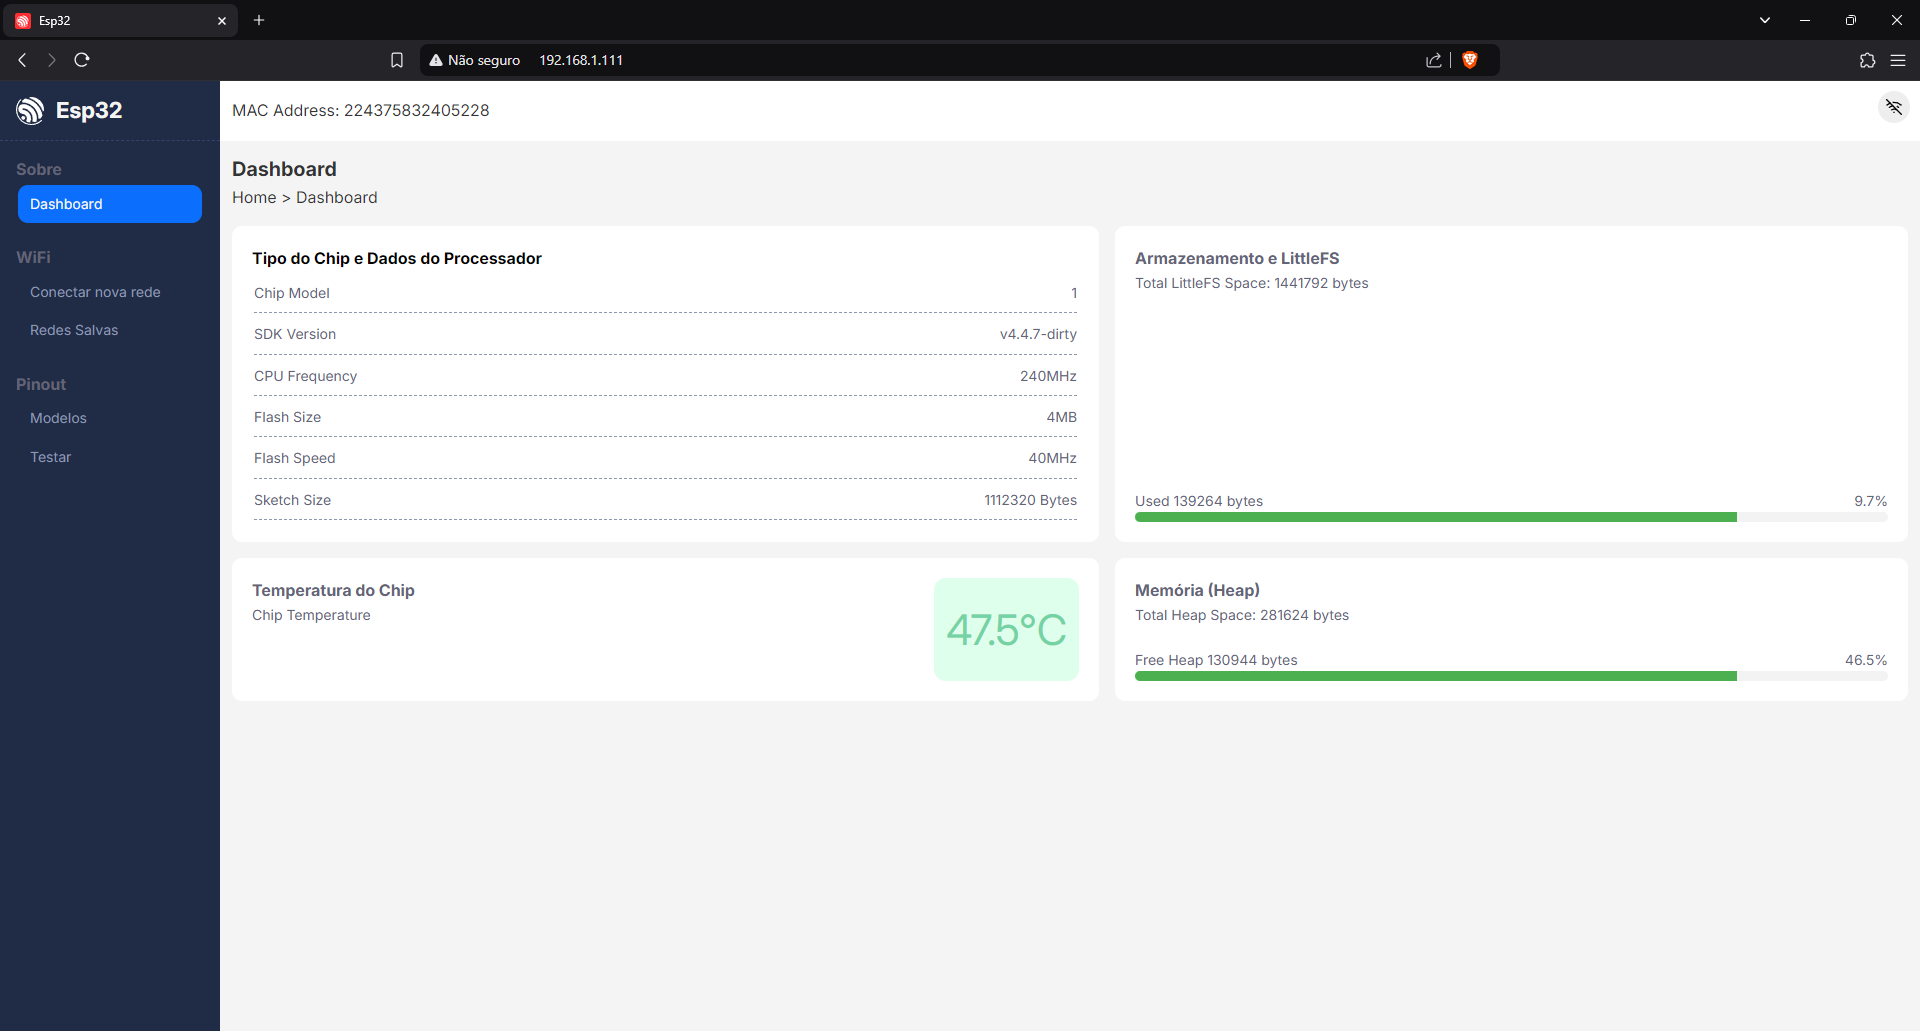
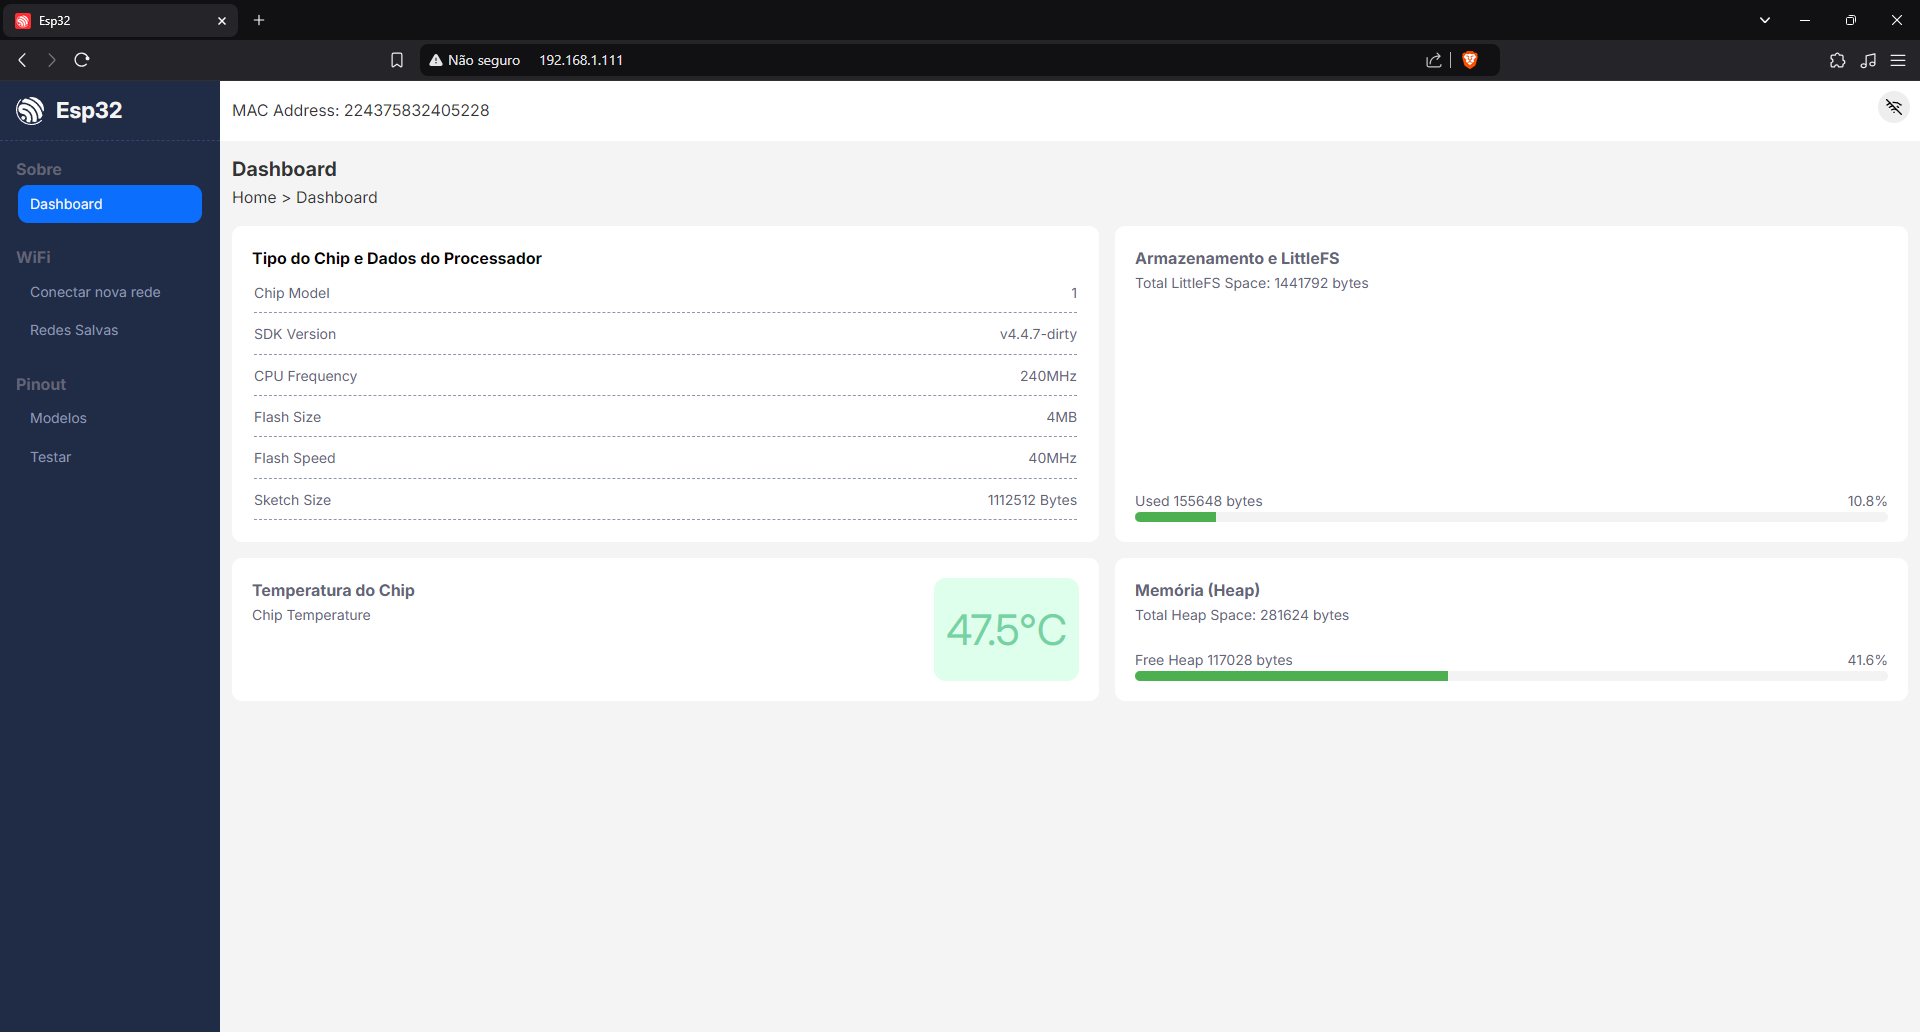
dashboard-admin: progress-bar

diff --git a/web-servers/03_dashboard-admin/data/assets/js/scripts/espinfo.js b/web-servers/03_dashboard-admin/data/assets/js/scripts/espinfo.js
@@ -1,4 +1,4 @@
-import { fetchData, updateTextContent, calculateSubtraction, calculatePercentage, getTempCelsius } from './utils.js';
+import { fetchData, updateTextContent, updateProgressBar, calculateSubtraction, calculatePercentage, getTempCelsius } from './utils.js';
 
 // Mapeamento dos endpoints da API de info do Esp32
 const espInfoAPI = {
@@ -19,23 +19,29 @@ function processChipInfo(data){
     updateTextContent('sketch-size', data.sketchSize);
 }
 
-function processLittleFSInfo(data) { 
-    updateTextContent('littlefs-total', data.totalBytes); 
-    updateTextContent('littlefs-used', data.usedBytes); 
-    updateTextContent(
-        'littlefs-perc', 
-        calculatePercentage(data.usedBytes, data.totalBytes)
-    ); 
+function processLittleFSInfo(data) {
+    const usedBytes = data.usedBytes;
+    const totalBytes = data.totalBytes;
+    const percentage = calculatePercentage(data.usedBytes, data.totalBytes);
+
+    updateTextContent('littlefs-total', totalBytes); 
+    updateTextContent('littlefs-used', usedBytes); 
+    updateTextContent('littlefs-perc', percentage);
+    
+    updateProgressBar('littlefs-bar', percentage);
 }
 
 function processHeapInfo(data) { 
-    let heapUsed = calculateSubtraction(data.heapSize, data.freeHeapSize); 
+    const heapSize = data.heapSize;
+    const freeHeapSize = data.freeHeapSize;
+    const heapUsed = calculateSubtraction(heapSize, freeHeapSize);
+    const percentage = calculatePercentage(heapUsed, heapSize);
+
     updateTextContent('heap-total', data.heapSize);
     updateTextContent('heap-used', heapUsed); 
-    updateTextContent(
-        'heap-perc', 
-        calculatePercentage(heapUsed, data.heapSize)
-    ); 
+    updateTextContent('heap-perc', percentage);
+
+    updateProgressBar('heap-bar', percentage);
 }
 
 function processInternalTemp(data) { 

diff --git a/web-servers/03_dashboard-admin/data/assets/js/scripts/utils.js b/web-servers/03_dashboard-admin/data/assets/js/scripts/utils.js
@@ -22,6 +22,19 @@ export function updateTextContent(elementId, textContent){
     document.getElementById(elementId).textContent = textContent;
 }
 
+export function updateProgressBar(elementId, percentage) {
+    /**
+     * Função para atualizar a barra de progresso
+     * @param {string} elementId - ID do elemento HTML com.
+     * @param  {number} percentage - Valor da porcentagem para atualizar o preenchimento da barra de progresso.
+     */
+    const progressBar = document.getElementById(elementId);
+    if(progressBar){
+        const percentageValue = parseFloat(percentage).toFixed(1); 
+        progressBar.style.width = percentageValue + '%';
+    }
+}
+
 export function calculatePercentage(portion, total) {
     if(total === 0 || !isNumber(portion) || !isNumber(total)) {
         return 'N/A';

diff --git a/web-servers/03_dashboard-admin/data/assets/css/styles.css b/web-servers/03_dashboard-admin/data/assets/css/styles.css
@@ -190,7 +190,7 @@ tr td:last-child{
 }
 
 .progress-bar { 
-    width: 80%; 
+    /* width: 80%;  */
     height: 10px; 
     background-color: #4caf50;
     border-radius: 10px 0 0 10px;
